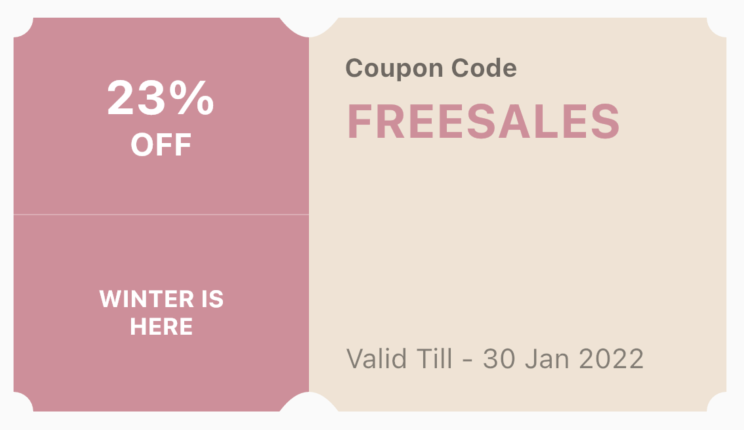
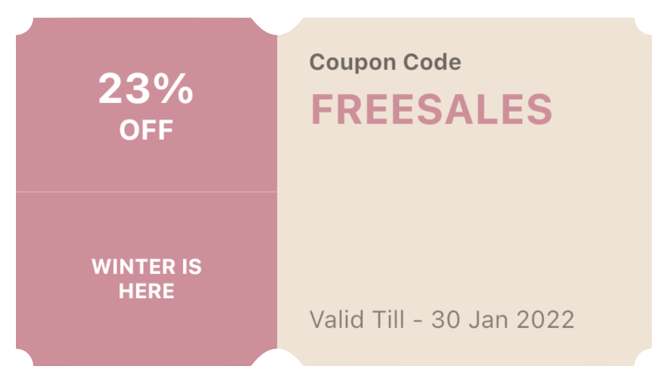
Added the 'shadow' property in CouponCard widget

diff --git a/lib/src/widgets/coupon_card.dart b/lib/src/widgets/coupon_card.dart
@@ -1,6 +1,7 @@
 import 'package:flutter/material.dart';
 
 import '../clippers/coupon_clipper.dart';
+import '../painters/coupon_with_shadow_painter.dart';
 
 /// Provides a coupon card widget
 class CouponCard extends StatelessWidget {
@@ -19,6 +20,7 @@ class CouponCard extends StatelessWidget {
     this.clockwise = false,
     this.backgroundColor,
     this.decoration,
+    this.shadow,
   }) : super(key: key);
 
   /// The small child or first.
@@ -51,11 +53,27 @@ class CouponCard extends StatelessWidget {
 
   /// The background color value.
   ///
-  /// Ignored if decoration property is used.
+  /// Ignored if `decoration` property is used.
   final Color? backgroundColor;
 
-  /// The decoration of the entire widget.
+  /// The decoration of the entire widget
+  ///
+  /// Note: `boxShadow` property in the `BoxDecoration` won't do an effect,
+  /// and you should use the `shadow` property of `CouponCard` itself instead.
   final Decoration? decoration;
+
+  /// A shadow applied to the widget.
+  ///
+  /// Usage
+  /// ```dart
+  /// CouponCard(
+  ///   shadow: BoxShadow(
+  ///     color: Colors.black56,
+  ///     blurRadius: 10,
+  ///   ),
+  /// )
+  /// ```
+  final Shadow? shadow;
 
   @override
   Widget build(BuildContext context) {
@@ -75,22 +93,35 @@ class CouponCard extends StatelessWidget {
       Expanded(child: secondChild),
     ];
 
-    return ClipPath(
-      clipper: CouponClipper(
-        borderRadius: borderRadius,
-        curveRadius: curveRadius,
-        curvePosition: curvePosition,
-        curveAxis: curveAxis,
-        direction: Directionality.of(context),
-        clockwise: clockwise,
+    final clipper = CouponClipper(
+      borderRadius: borderRadius,
+      curveRadius: curveRadius,
+      curvePosition: curvePosition,
+      curveAxis: curveAxis,
+      direction: Directionality.of(context),
+      clockwise: clockwise,
+    );
+
+    const defaultShadow = Shadow(
+      color: Colors.transparent,
+      blurRadius: 0,
+    );
+
+    return CustomPaint(
+      painter: CouponWithShadowPainter(
+        shadow: shadow ?? defaultShadow,
+        clipper: clipper,
       ),
-      child: Container(
-        width: width,
-        height: height,
-        decoration: decoration ?? BoxDecoration(color: backgroundColor),
-        child: curveAxis == Axis.horizontal
-            ? Column(children: children)
-            : Row(children: children),
+      child: ClipPath(
+        clipper: clipper,
+        child: Container(
+          width: width,
+          height: height,
+          decoration: decoration ?? BoxDecoration(color: backgroundColor),
+          child: curveAxis == Axis.horizontal
+              ? Column(children: children)
+              : Row(children: children),
+        ),
       ),
     );
   }

diff --git a/lib/src/painters/coupon_with_shadow_painter.dart b/lib/src/painters/coupon_with_shadow_painter.dart
@@ -1,0 +1,24 @@
+import 'package:flutter/material.dart';
+
+class CouponWithShadowPainter extends CustomPainter {
+  final Shadow shadow;
+  final CustomClipper<Path> clipper;
+
+  CouponWithShadowPainter({
+    required this.shadow,
+    required this.clipper,
+  });
+
+  @override
+  void paint(Canvas canvas, Size size) {
+    final paint = shadow.toPaint();
+    final path = clipper.getClip(size).shift(shadow.offset);
+    canvas.drawPath(path, paint);
+  }
+
+  @override
+  bool shouldRepaint(CouponWithShadowPainter oldDelegate) => false;
+
+  @override
+  bool shouldRebuildSemantics(CouponWithShadowPainter oldDelegate) => false;
+}

diff --git a/lib/src/clippers/coupon_clipper.dart b/lib/src/clippers/coupon_clipper.dart
@@ -28,8 +28,10 @@ class CouponClipper extends CustomClipper<Path> {
     this.curveAxis = Axis.horizontal,
     this.direction = TextDirection.ltr,
     this.clockwise = false,
-  }) : assert(curvePosition > borderRadius,
-            "'curvePosition' should be greater than the 'borderRadius'");
+  }) : assert(
+          curvePosition > borderRadius,
+          "'curvePosition' should be greater than the 'borderRadius'",
+        );
 
   /// Border radius value.
   final double borderRadius;

diff --git a/CHANGELOG.md b/CHANGELOG.md
@@ -1,3 +1,8 @@
+## 0.1.0
+
+- Added the ability to apply a `BoxShadow` to the `CouponCard`
+- Updated the example
+
 ## 0.0.1+2
 
 - Removed unnecessary imports in the `example` project
